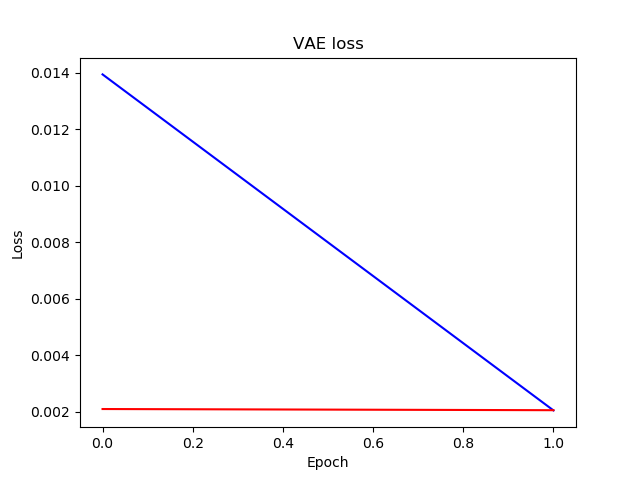
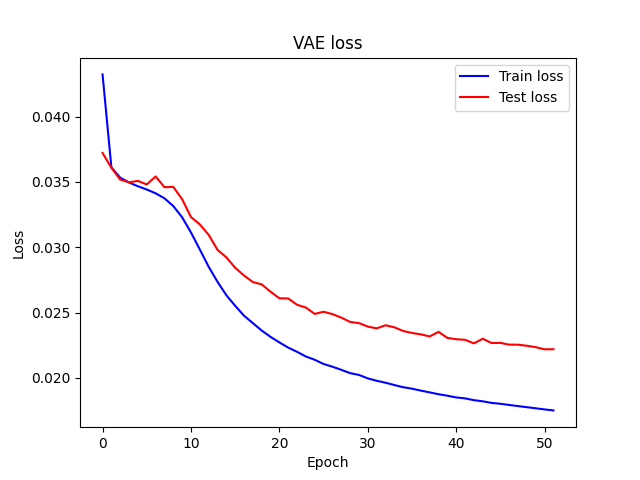
Preliminary VAE testing

diff --git a/train_test.py b/train_test.py
@@ -13,20 +13,22 @@ def create_img_grid(model, dataloader, filename, device):
     model.eval()
     X, Y = next(iter(dataloader))
     X = X.to(device)
+    Y = Y.to(device)
     X_recon, _, _ = model(X)
 
     n = min(X.size(0), 8)
-    comparison = torch.cat([Y[:n], X_recon[:n]])
+    comparison = torch.cat([Y[:n]*255, X[:n]*255, X_recon[:n]*255])
 
     grid = make_grid(comparison)
     ndarr = grid.mul(255).add_(0.5).clamp_(0, 255).permute(1, 2, 0).to("cpu", torch.uint8).numpy()
     
     plt.figure()
     plt.imshow(ndarr)
+    plt.axis('off')
     plt.savefig(filename)
 
-def vae_loss(recon_x, x, mu, logvar, beta=1):   
-    # recon_loss = F.binary_cross_entropy(recon_x, x.view(-1, 320000), reduction='sum')
+def vae_loss(recon_x, x, mu, logvar, beta=0):   
+    # recon_loss = F.binary_cross_entropy(recon_x.view(-1, 10000), x.view(-1, 10000), reduction='sum')
     recon_loss = F.mse_loss(recon_x, x)
     KLD = -0.5 * torch.sum(1 + logvar - mu.pow(2) - logvar.exp())
 
@@ -47,7 +49,7 @@ def train_step_vae(model, dataloader, optim, device):
         loss.backward()
         optim.step()
 
-    return tot_loss / len(dataloader.dataset)
+    return tot_loss / len(dataloader)
 
 def test_step_vae(model, dataloader, device):
     model.eval()
@@ -60,7 +62,7 @@ def test_step_vae(model, dataloader, device):
         loss = vae_loss(X_recon, Y, mu, logvar)
         tot_loss += loss.item()
 
-    return tot_loss / len(dataloader.dataset)
+    return tot_loss / len(dataloader)
 
 def train_vae(model, train_dataloader, test_dataloader, optim, device='cuda', epochs=100):
     all_train_loss = []
@@ -85,4 +87,5 @@ def train_vae(model, train_dataloader, test_dataloader, optim, device='cuda', ep
         plt.xlabel('Epoch')
         plt.ylabel('Loss')
         plt.title('VAE loss')
+        plt.legend()
         plt.savefig('figures/loss.png')

diff --git a/train_vae.py b/train_vae.py
@@ -5,8 +5,10 @@ from network import VAE
 from data import socofing_train_test_split_gen, SOCOFing_Gen
 from train_test import train_vae
 
-data_root = '/home/jacob/Documents/data/archive/SOCOFing/Altered/Altered-Easy'
-gt_root = '/home/jacob/Documents/data/archive/SOCOFing/Real'
+torch.manual_seed(0)
+
+data_root = 'D:\\Big_Data\\SOCOFing\\SOCOFing\\Altered\\Altered-Easy'
+gt_root = 'D:\\Big_Data\\SOCOFing\\SOCOFing\\Real'
 train_samples, test_samples = socofing_train_test_split_gen(data_root, test_size=.1)
 
 print(f'Loading data with:\n--> Train: {len(train_samples)} samples\n--> Test : {len(test_samples)} samples')
